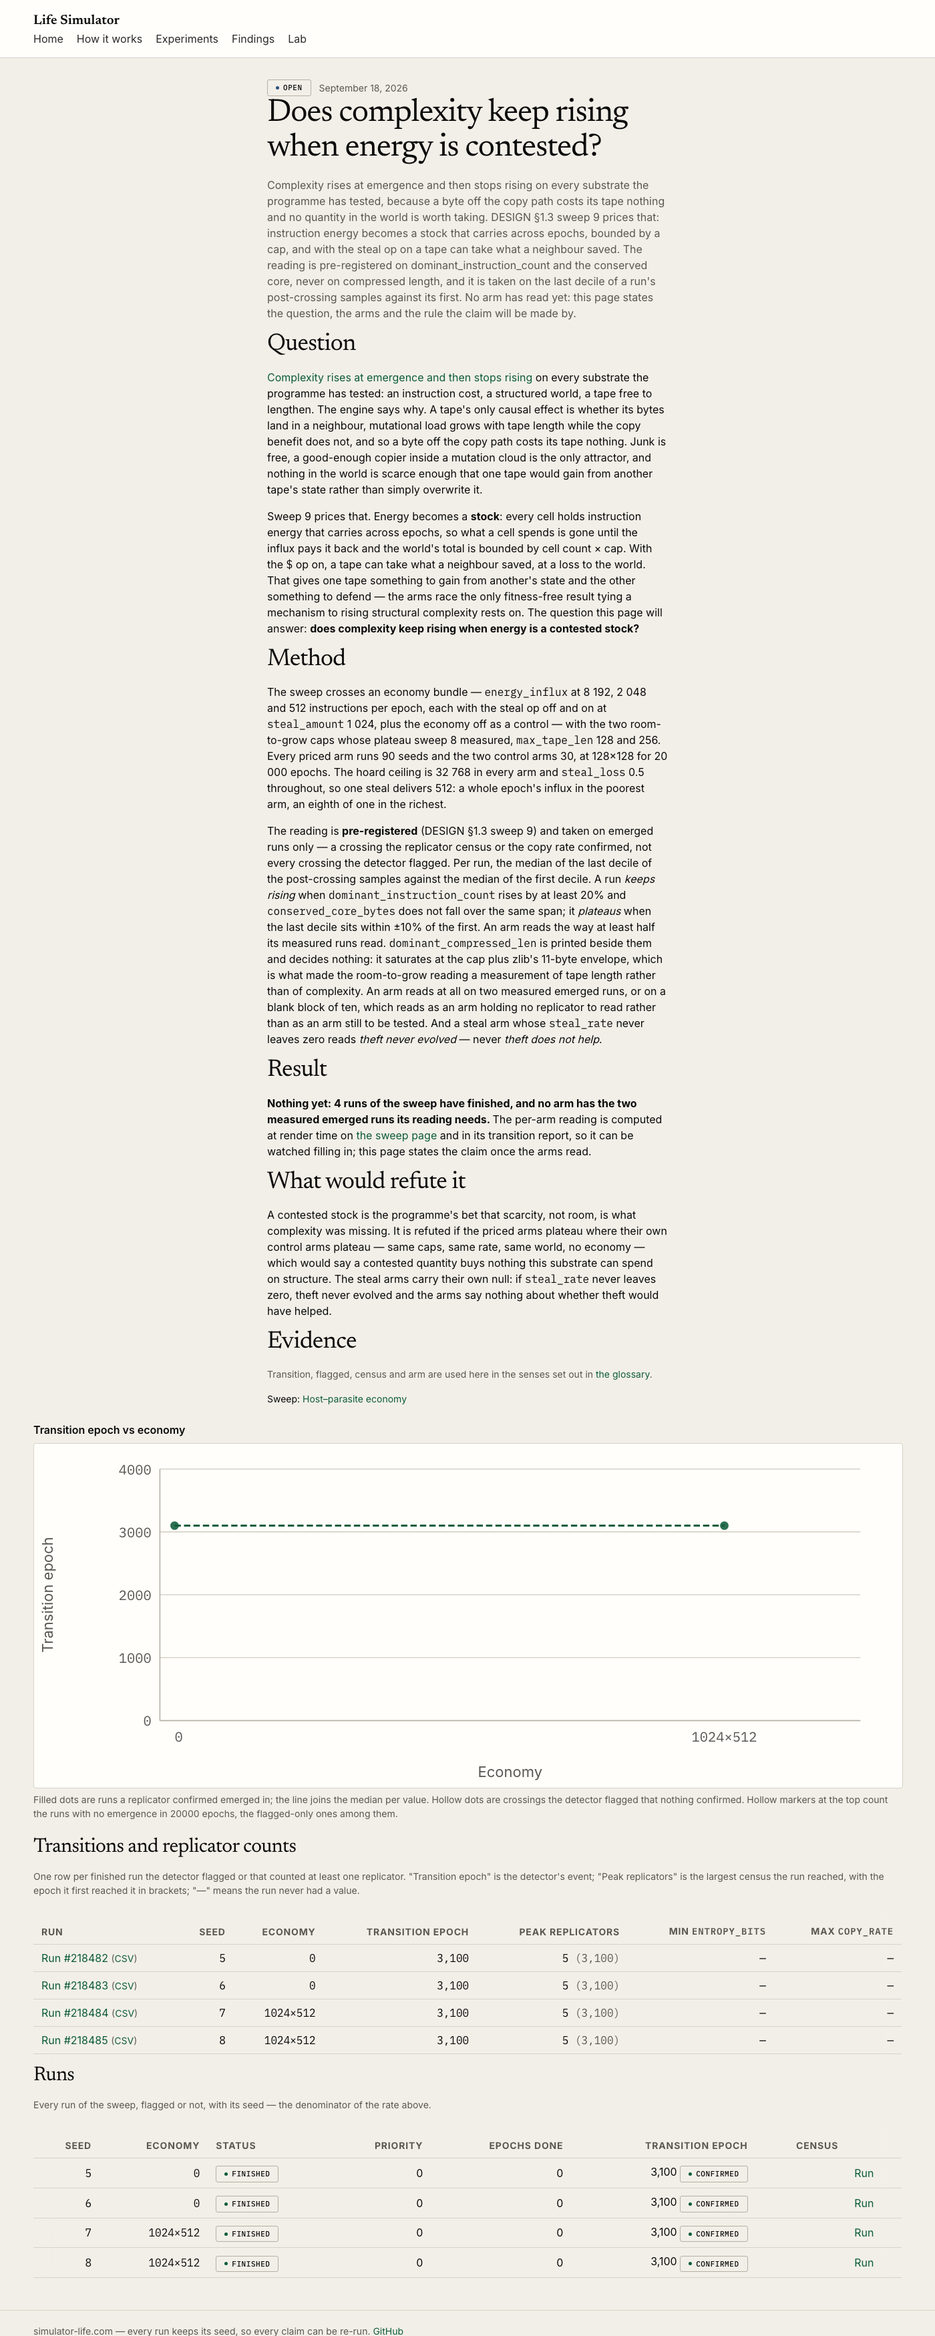
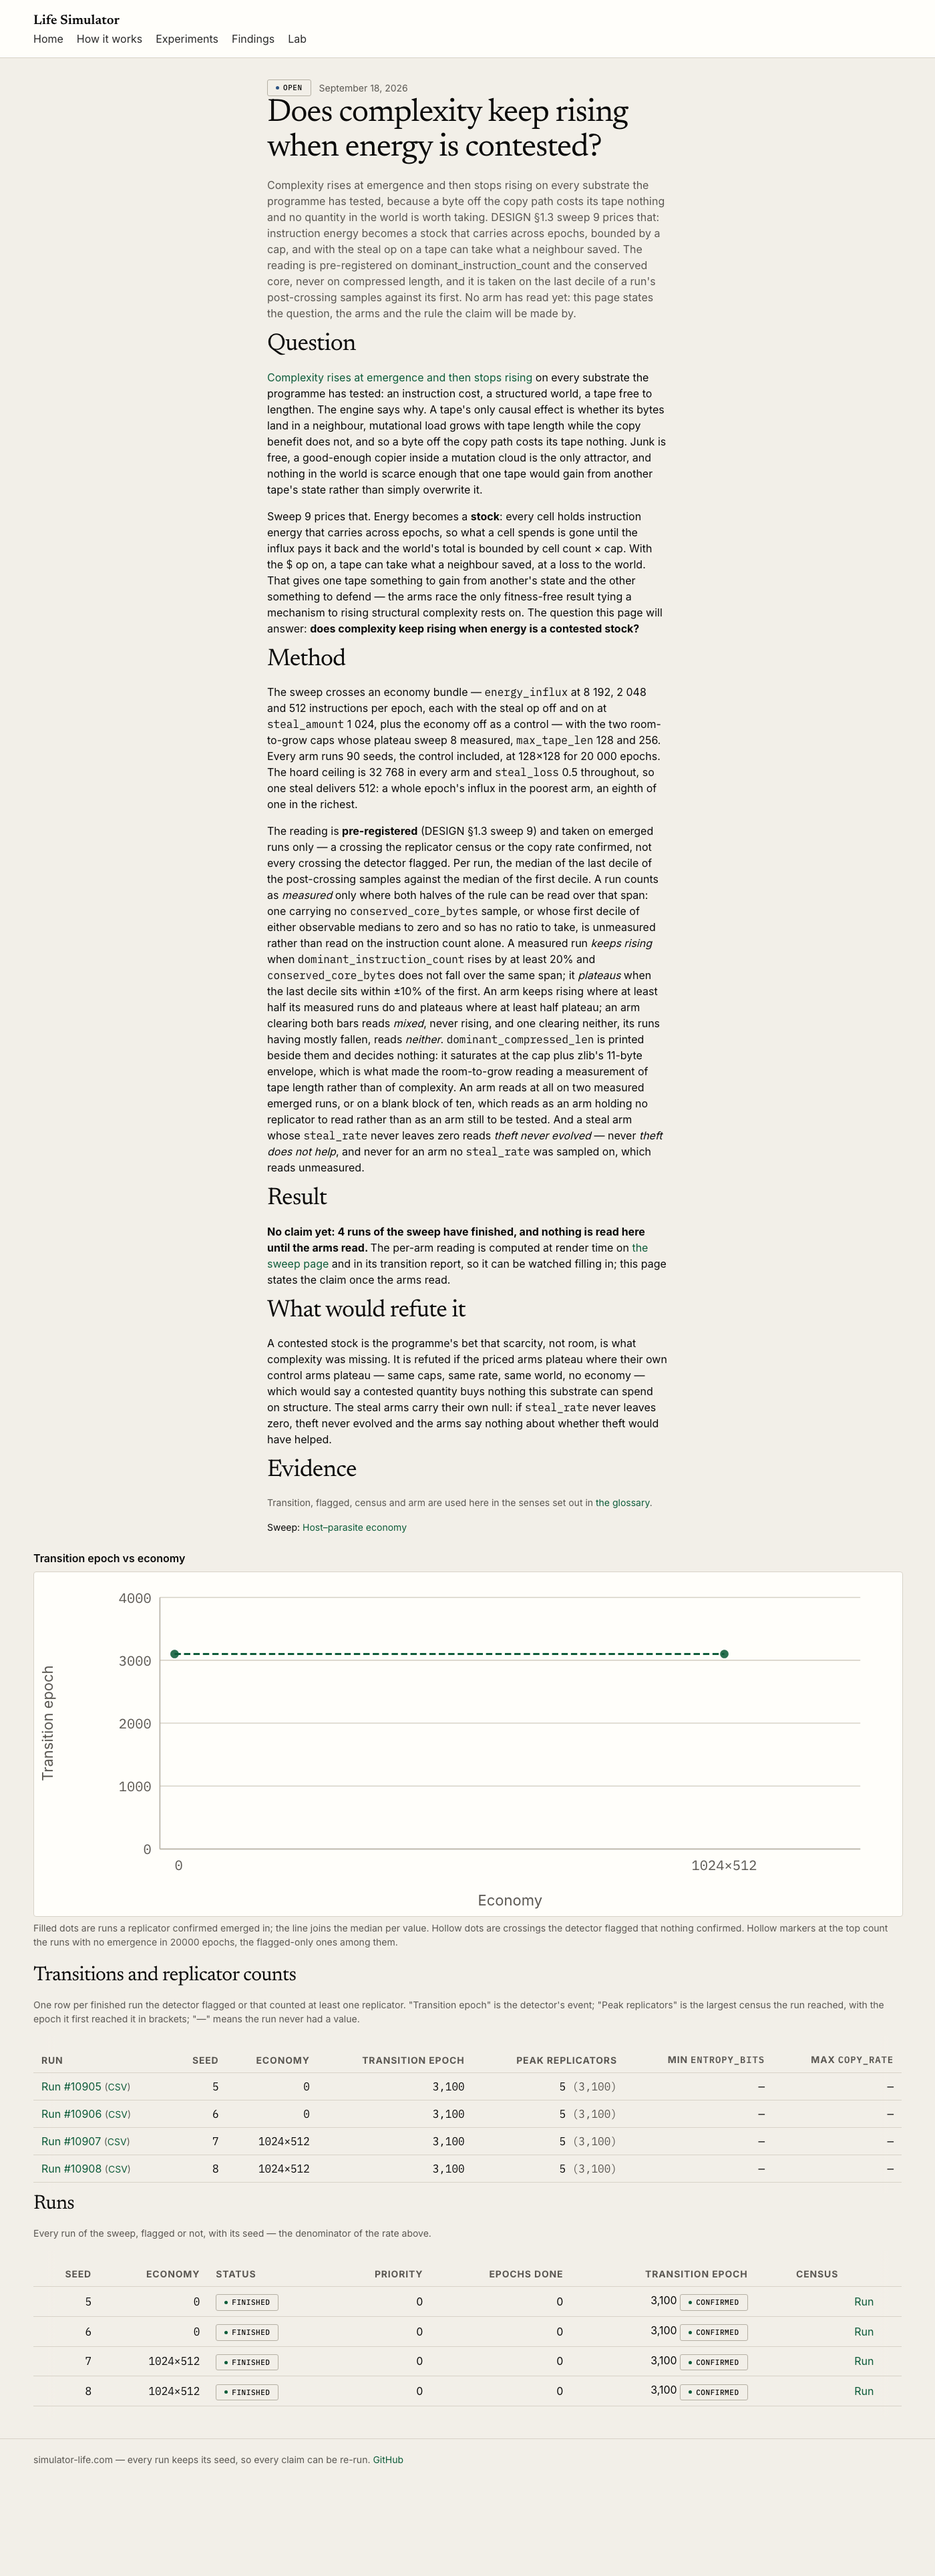
State the unread clauses on the finding page and reshoot the after pictures
The finding page is where the reading is pre-registered in public, and its
method paragraph still read the rule as it stood before the fixes: no mention
that a run without a conserved core over the span, or with a first decile
that medians to zero, is unmeasured rather than read on the instruction
count alone, none of the mixed-against-neither split, and none of the theft
that was never sampled. DESIGN 1.3 and the sweep page carry all three.

after-finding.png showed a Result line this branch has never rendered and
after-sweep.png a reading table from before the plateau column; both are
shot again from the branch as it stands.

diff --git a/spec/requests/findings_spec.rb b/spec/requests/findings_spec.rb
@@ -1352,6 +1352,16 @@ RSpec.describe "Findings", type: :request do
           .to include("does complexity keep rising when energy is a contested stock?",
                       "at least 20%", "within ±10% of the first",
                       "theft never evolved")
+      end
+
+      it "states the clauses that leave a run or an arm unread" do
+        get finding_path(pending_finding)
+
+        expect(response.body.squish)
+          .to include("is unmeasured rather than read on the instruction count alone",
+                      "clearing both bars reads <em>mixed</em>, never rising",
+                      "its runs having mostly fallen, reads <em>neither</em>",
+                      "was sampled on, which reads unmeasured")
         expect(response.body).to include(%(<span class="badge badge-info">open</span>))
       end
 
